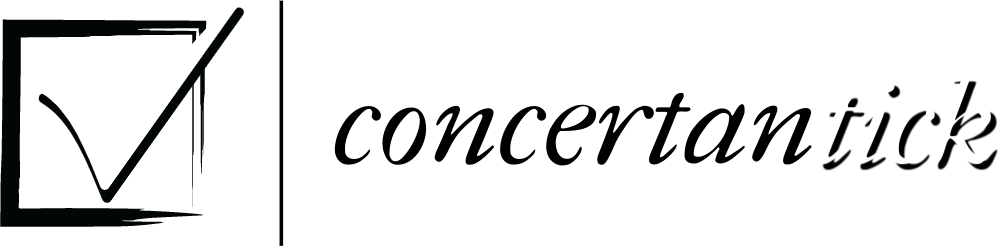
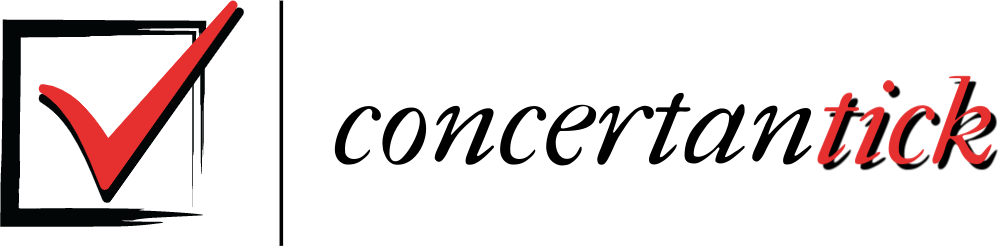
update concertantick themes

Changed region(s): [[0.8068, 0.313, 0.993, 0.6829], [0.031, 0.0, 0.2482, 0.7683], [0.8689, 0.313, 0.8999, 0.3699]]

diff --git a/concertantick/settings.py b/concertantick/settings.py
@@ -21,7 +21,7 @@ WORK_MODEL = 'concertantick.Concerto'
 WORK_PLURAL_LABEL = 'concertos'
 
 SITE = 'Concertantick'
-BACKGROUND_COLOUR = '#9ad656'
+BACKGROUND_COLOUR = '#eee80e'
 
 SITE_ID = 3
 
